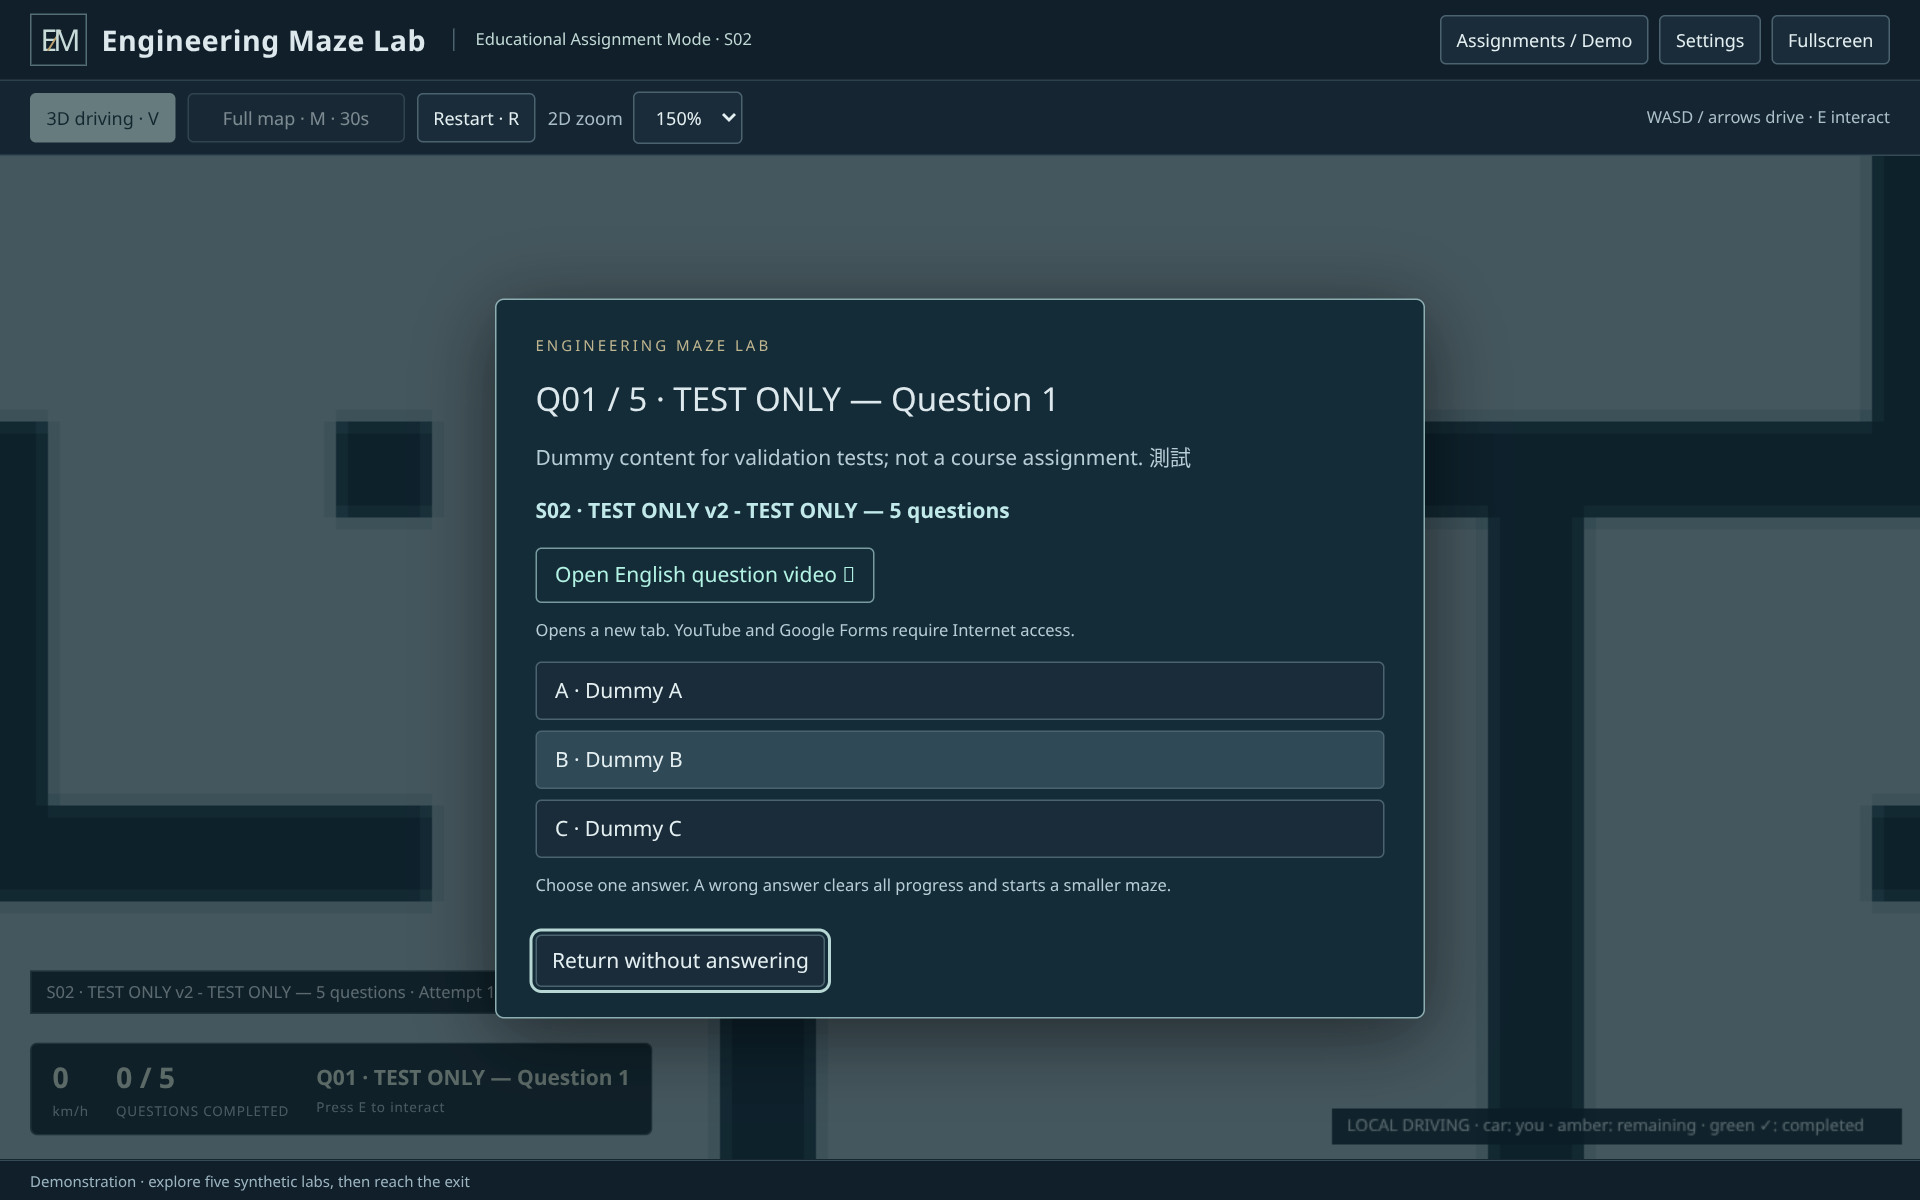
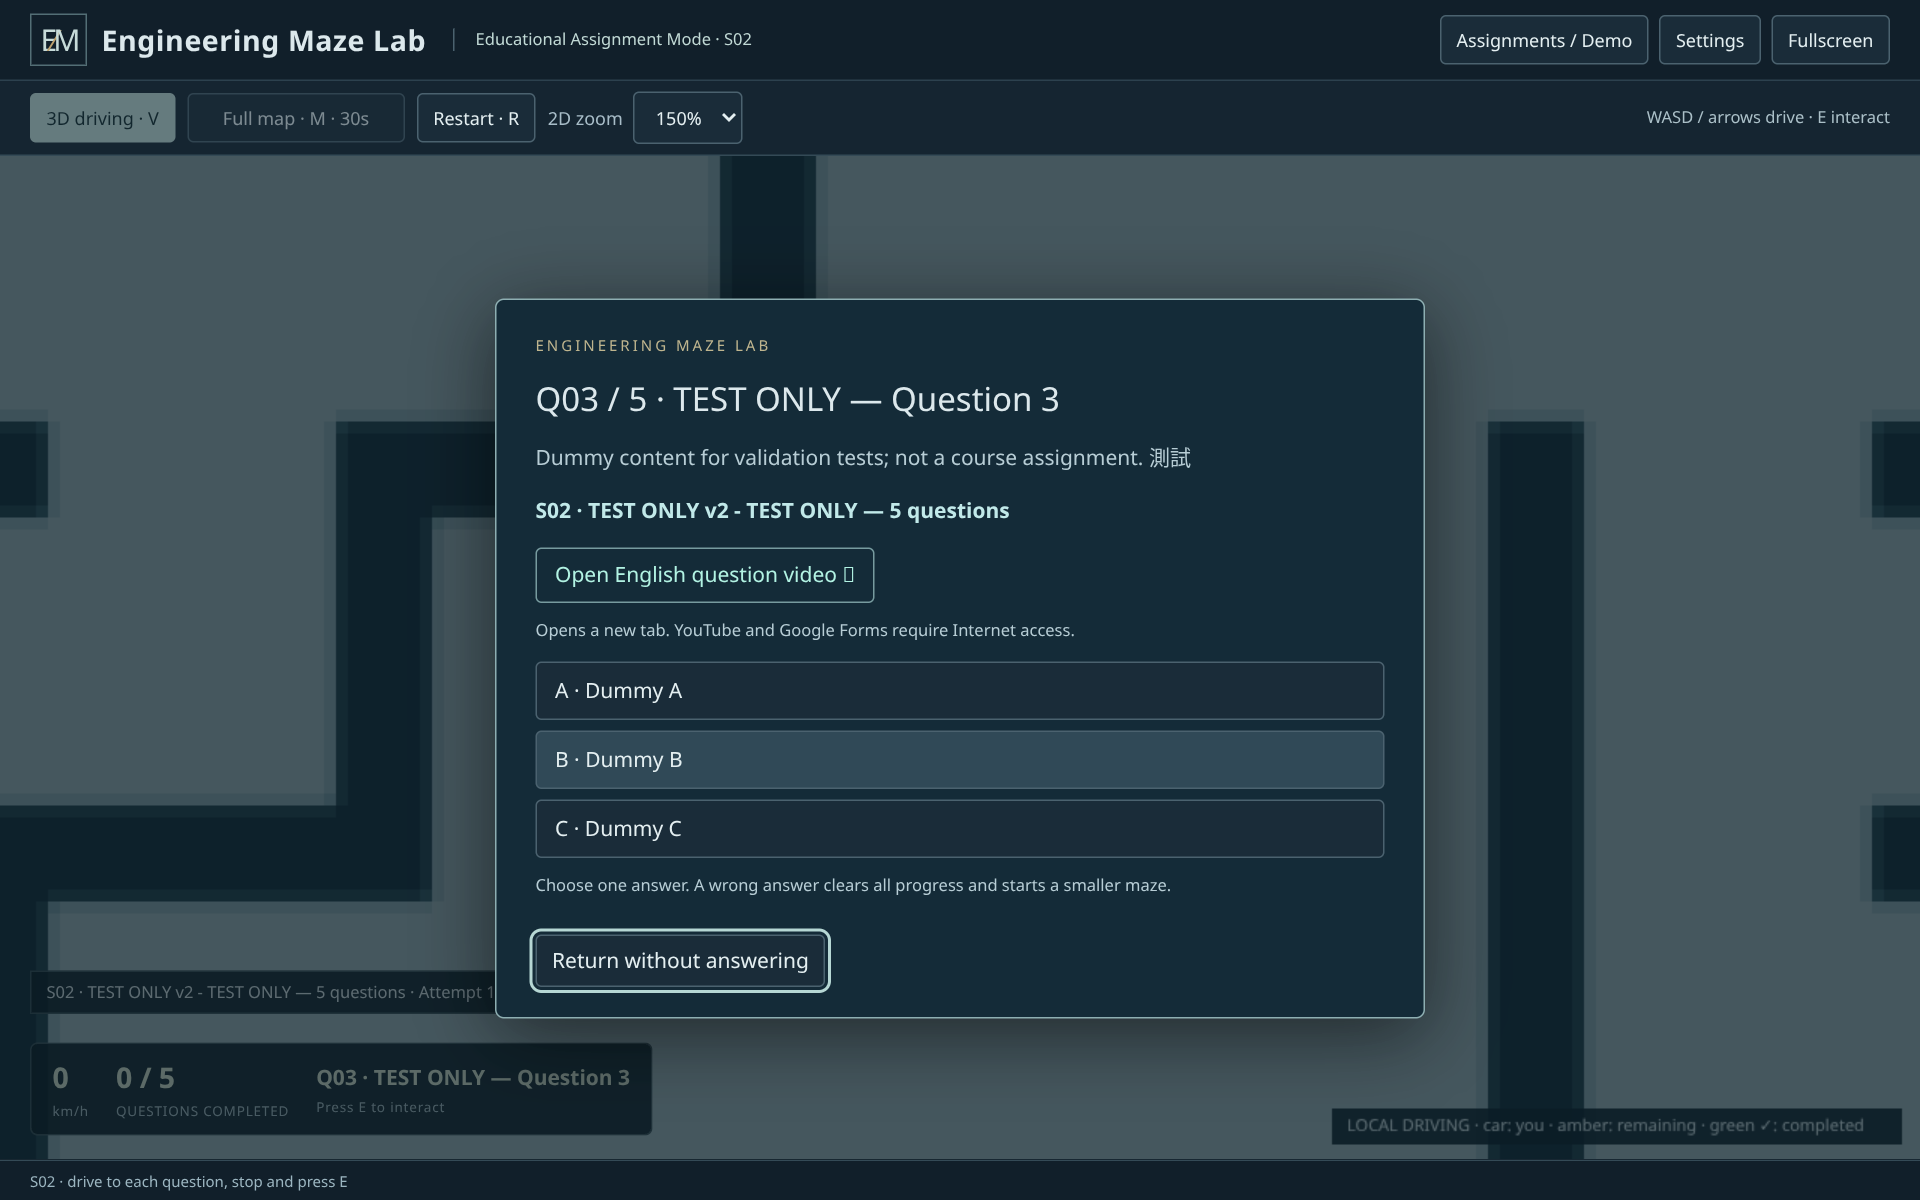
Record P2.1 evidence and pending GitHub runner gate

diff --git a/docs/3d-p2.1-release-results.md b/docs/3d-p2.1-release-results.md
@@ -111,6 +111,12 @@ in **278.661 s** after fixing native-dialog Tab containment; final status/map
 concealment additions passed both focused reruns in **175.007 s**. The full original/navigation
 suites and GitHub verification are recorded at final delivery below.
 
+All five local navigation regressions passed in **119.895 s**, including the
+mixed 3D/2D keyboard route, shared physics/resources, cumulative map exhaustion,
+size/seed/zoom/projector coverage and context recovery.
+The question illustration was recaptured with the final runtime and Medium
+preset, using a real keyboard route to a synthetic v2 question.
+
 The original 12-test local run passed 11 and reached all labs/EXIT in its full
 route, then failed the old **Reset** text assertion. After updating that expected
 copy to **Restart**, the complete route, completion and R-clear checks passed
@@ -139,12 +145,28 @@ destinations are intercepted without submissions.
 
 ## Release verification and candidate
 
-This implementation checkpoint has **not yet created the candidate tag**.
-Completion requires an actual successful feature workflow and uploaded artifacts.
-The annotated **`showcase3d-v1.0.0-rc1`** tag will point to that exact tested
-implementation/build commit; existing tags will not be overwritten. The final
-report/annotation will bind the source SHA, successful run and package. A later
-results-only documentation commit is not substituted for the tested tag target.
+**Release verification remains incomplete; the candidate tag has not been
+created.** Implementation/build commit
+**`c6c41c9b2ff5de6cc33d7258d99365b5b742b0f0`** is pushed. Actual feature workflow
+[#7 / 39789826987](https://github.com/chingchechung/ece_hw_webproject/actions/runs/39789826987)
+has passed its Windows and Lite jobs. The Showcase job remains queued without
+an assigned runner after more than thirty minutes. GitHub rejected a single-job
+retry because the containing workflow is already running; no new attempt was
+created. This is a pending external execution gate, not a successful release check.
+
+| GitHub job | Verified result | Uploaded evidence |
+| --- | --- | --- |
+| [Lite](https://github.com/chingchechung/ece_hw_webproject/actions/runs/39789826987/job/119862584585) | **151 passed**, plus four CLI manifest commands | [lite-preservation-39789826987-1](https://github.com/chingchechung/ece_hw_webproject/actions/runs/39789826987/artifacts/12431123555) |
+| [Windows launcher](https://github.com/chingchechung/ece_hw_webproject/actions/runs/39789826987/job/119862585180) | **7 passed**, PowerShell **5.1.26100.33438**, empty server-error log | [showcase3d-windows-launcher-39789826987-1](https://github.com/chingchechung/ece_hw_webproject/actions/runs/39789826987/artifacts/12429569452) |
+| [Showcase](https://github.com/chingchechung/ece_hw_webproject/actions/runs/39789826987/job/119862584153) | **Queued; not yet executed** | Pending |
+
+Completion still requires actual Showcase success and uploaded artifacts, then
+a byte-identical rebuild/package. The annotated **`showcase3d-v1.0.0-rc1`** tag
+must point to that exact successfully tested implementation/build commit;
+existing tags must not be overwritten. The final report/annotation will bind
+the source SHA, successful run and package. This results/screenshot-only
+documentation update does not replace the implementation/build commit as the
+intended tag target. No pending job is counted as a pass.
 
 The feature workflow retains Ubuntu 24.04/Python 3.12/Node 24/Chromium, the
 unchanged Lite job and Windows PowerShell 5.1 launcher job. It adds the production
